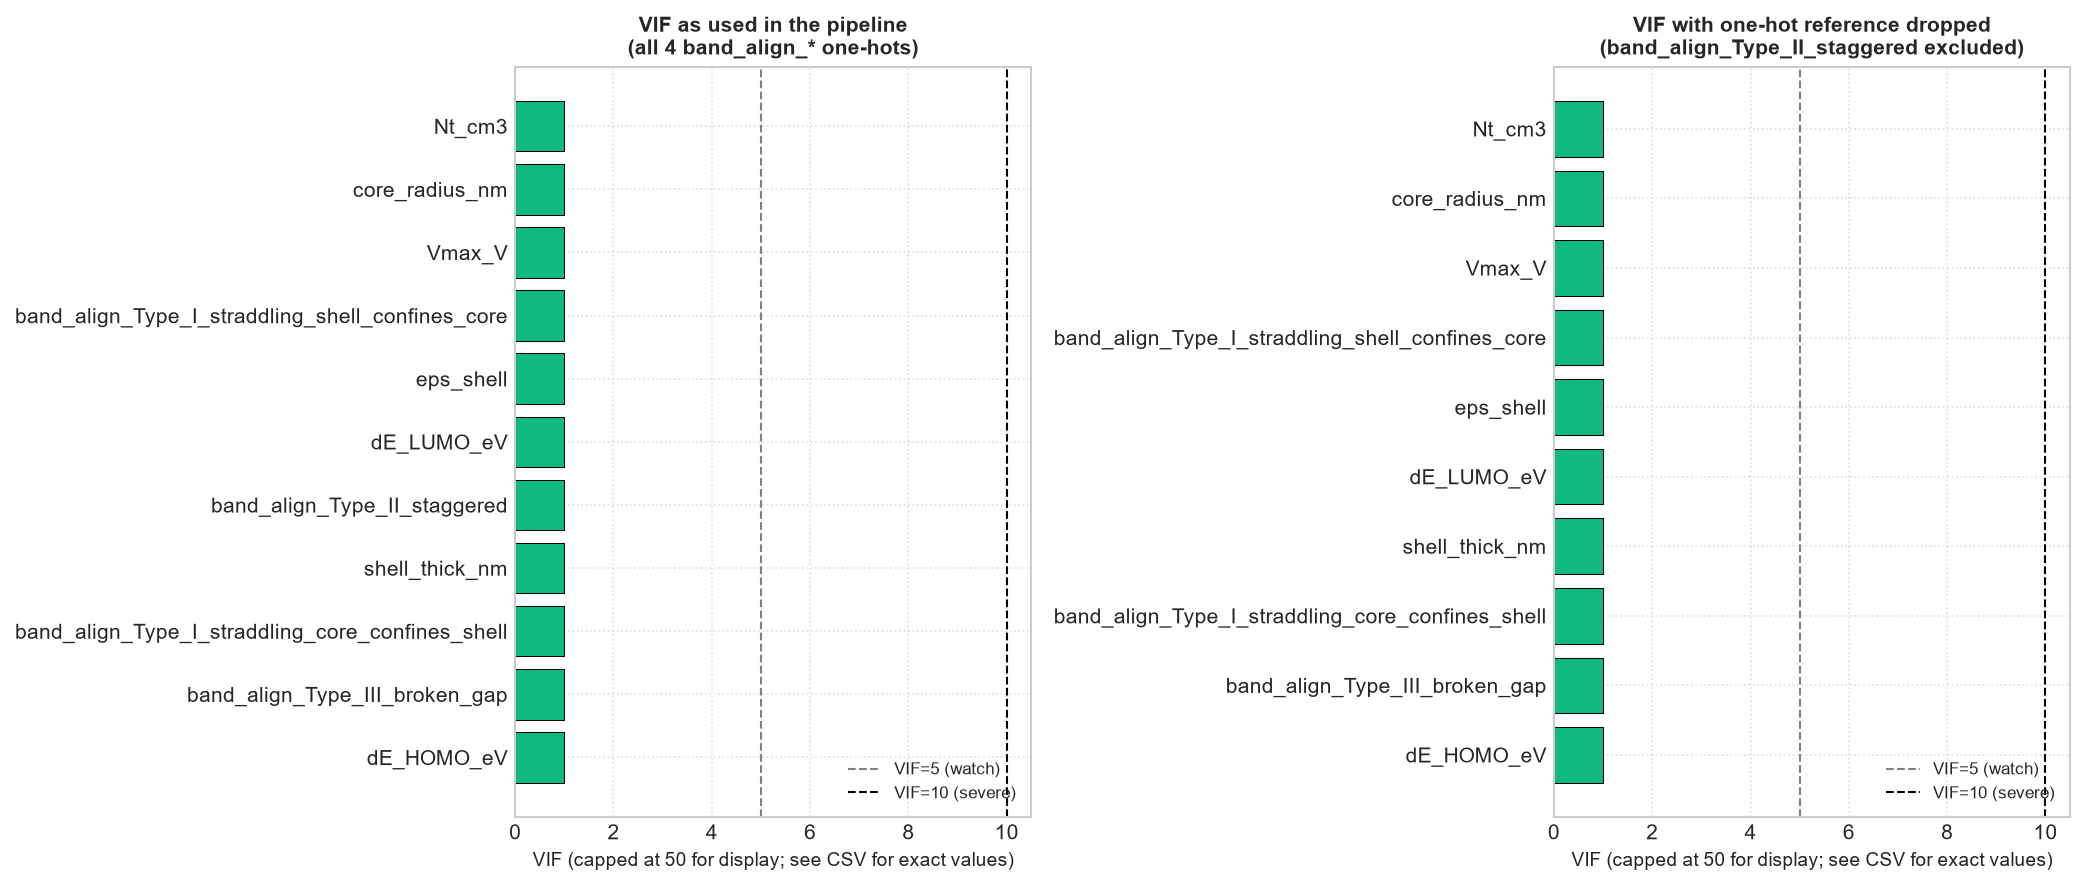
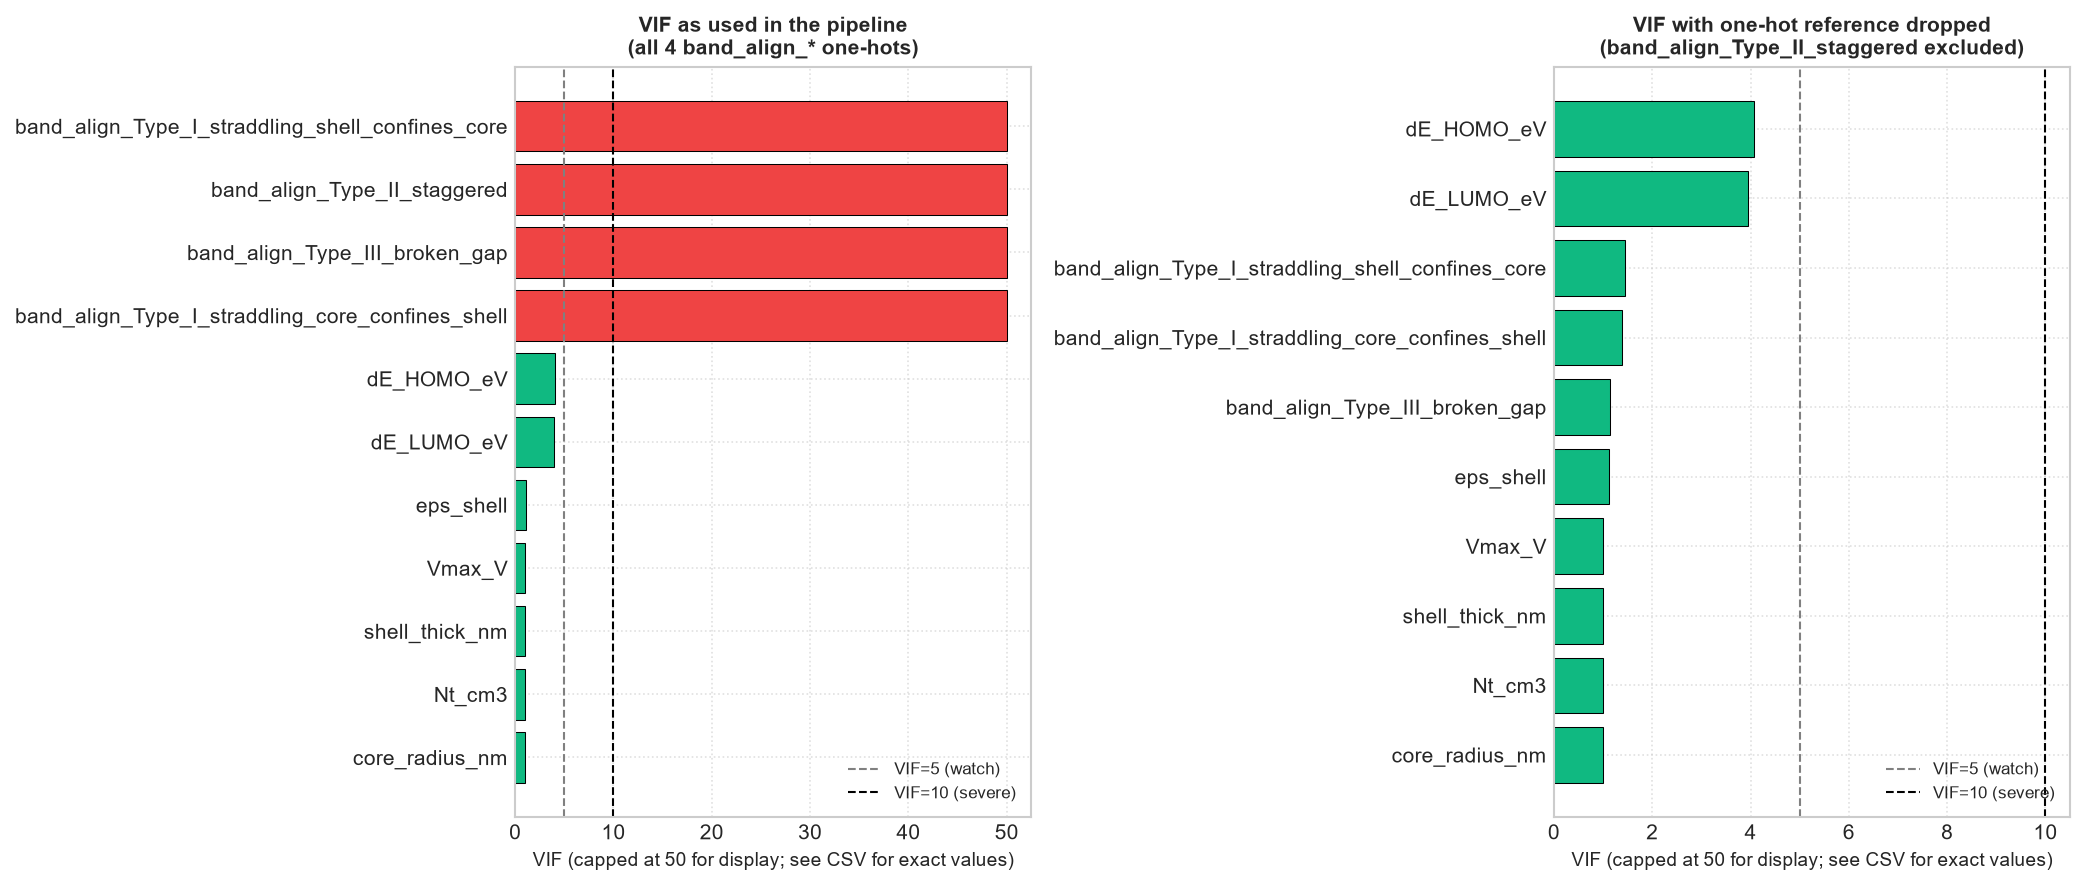
Fix numerical bug in VIF check that hid real multicollinearity
Every VIF came back as exactly 1.00 in the previous commit, including
for dE_LUMO_eV/dE_HOMO_eV, which are independently known to correlate
at r=-0.75 -- flagged by the user as an oddly-flat, suspicious-looking
plot, not caught by review of the code.

Root cause: Nt_cm3 spans 1e15-1e19 while every other feature is
O(1)-O(300), a condition number far beyond float64's ~15-16 digits of
precision. LinearRegression's solver silently returned garbage
(R^2 ~ 0.00002) for every feature at that scale disparity. VIF's true
value is scale-invariant; the least-squares fit used to compute it is
not, at this magnitude spread. Fixed by standardizing features before
fitting.

Corrected result is materially different, not just numerically off:
the 4 band_align_* one-hots show VIF ~1e10 (the dummy-variable-trap
artifact the script's docstring predicted but the bug prevented from
showing), and dE_LUMO_eV/dE_HOMO_eV show a real, moderate VIF ~4 --
a genuine linear relationship the previous (wrong) result said didn't
exist. Updated CLAUDE.md's "every VIF ~1.0, no linear multicollinearity
anywhere" claim, which was simply incorrect, not just imprecise.

diff --git a/multicollinearity_check.py b/multicollinearity_check.py
@@ -34,6 +34,7 @@ import numpy as np
 import pandas as pd
 import matplotlib.pyplot as plt
 from sklearn.linear_model import LinearRegression
+from sklearn.preprocessing import StandardScaler
 
 from split_utils import load_dataset
 
@@ -51,10 +52,21 @@ feature_cols = [c for c in [
 
 
 def compute_vif(X: pd.DataFrame) -> pd.Series:
+    # VIF's true value is scale-invariant -- it only depends on the correlation
+    # structure between predictors, not their units. But the LEAST-SQUARES FIT
+    # used to compute it is not numerically scale-invariant: Nt_cm3 spans
+    # 1e15-1e19 while every other feature here is O(1)-O(300), a condition
+    # number far beyond float64's ~15-16 digits of precision. Fitting
+    # unstandardized gave R^2 ~ 0.00002 for every single feature (garbage --
+    # the solver lost the small-magnitude coefficients in the noise floor),
+    # which is what an all-VIF-exactly-1.0 plot actually means: numerical
+    # failure, not "no collinearity." Standardizing first fixes this without
+    # changing the true VIF values at all.
+    Xs = pd.DataFrame(StandardScaler().fit_transform(X), columns=X.columns, index=X.index)
     vifs = {}
-    for col in X.columns:
-        y = X[col].values
-        others = X.drop(columns=[col]).values
+    for col in Xs.columns:
+        y = Xs[col].values
+        others = Xs.drop(columns=[col]).values
         r2 = LinearRegression().fit(others, y).score(others, y)
         # r2 can come back fractionally above 1 or exactly 1 from float error on
         # an exact linear dependency -- clip so VIF reports as a large finite

diff --git a/CLAUDE.md b/CLAUDE.md
@@ -251,17 +251,25 @@ not yet merged to `main`):**
   formally tracked alongside the others in `csv/physics_sanity_checks.csv` /
   `plots/physics_sanity_checks.png`.
 - [x] Multicollinearity check (VIF) across the full feature set — `multicollinearity_check.py` (manual
-  VIF via `sklearn.LinearRegression`, no `statsmodels` dependency added). **Result: every VIF ≈ 1.0** —
-  essentially no linear multicollinearity anywhere, `band_align_*` included. **Read this result carefully,
-  don't take it as "the feature redundancy is fine after all":** VIF only detects *linear* relationships.
-  `band_alignment` is a deterministic function of `dE_LUMO_eV`/`dE_HOMO_eV`, but via a sign/threshold rule
-  (a classification boundary), which a linear regression cannot fit (R²≈0) even though the mapping is 100%
-  deterministic — the same reason the raw Pearson correlations between the offsets and any target were
-  always weak despite those offsets clearly driving predictions. So: VIF confirms this feature set would be
-  safe for a genuinely linear/coefficient-based model, but says nothing about the risk for tree splits or
-  a SISSO-style symbolic-regression model, both of which *can* exploit non-linear structure and would still
-  hit the redundancy already documented under "Verified data/pipeline caveats." The feature-redundancy
-  decision (Tier 1, item 6) is still open — this check didn't close it, and shouldn't be read as having done so.
+  VIF via `sklearn.LinearRegression`, no `statsmodels` dependency added). **First version of this check had
+  a real numerical bug, caught by the user from an oddly-flat plot, not by inspection of the code**: fitting
+  VIF's regressions on unstandardized features gave every single feature a VIF of exactly 1.00, including
+  `dE_LUMO_eV`/`dE_HOMO_eV`, which are independently known to correlate at r=-0.75. Cause: `Nt_cm3` spans
+  1e15-1e19 while every other feature is O(1)-O(300) — a condition number far beyond float64's ~15-16
+  digits of precision, so `LinearRegression`'s solver silently returned garbage (R²≈0.00002) for every
+  feature. VIF's true value is scale-invariant, but the least-squares fit used to compute it is not at this
+  magnitude spread. Fixed by standardizing features before fitting (doesn't change the true VIF, only the
+  numerical stability of computing it).
+  **Corrected result:** the 4 `band_align_*` one-hots show VIF ≈ 1×10¹⁰ when all 4 are included together —
+  the "dummy variable trap" predicted in this script's own docstring, now actually visible. `dE_LUMO_eV`
+  and `dE_HOMO_eV` show a real, moderate VIF ≈ 4 (consistent with r=-0.75) — a genuine *linear* relationship
+  between the two continuous offsets, independent of the non-linear band-alignment question below. With the
+  one-hot reference dropped, the one-hots' residual VIF is mild (1.1–1.45) — so the earlier claim that
+  `band_alignment`'s redundancy is mostly invisible to a linear test still holds for *that specific*
+  relationship, but "VIF confirms no linear multicollinearity anywhere" was simply wrong, not just
+  imprecise. This adds real quantitative weight to the still-open Tier 1 feature-redundancy decision
+  (item 6): there IS a moderate linear reason, not just the non-linear one, to not carry both continuous
+  offsets and the full one-hot set together in a coefficient-based model.
 - [x] Uncertainty quantification — `uncertainty_quantification.py`, XGBoost's native
   `reg:quantileerror` objective (`quantile_alpha=[0.1, 0.5, 0.9]`, no new dependency, same hyperparameters/
   features/split as `kmeans_xgboost_train.py`) gives an 80% prediction interval per candidate. **Result
